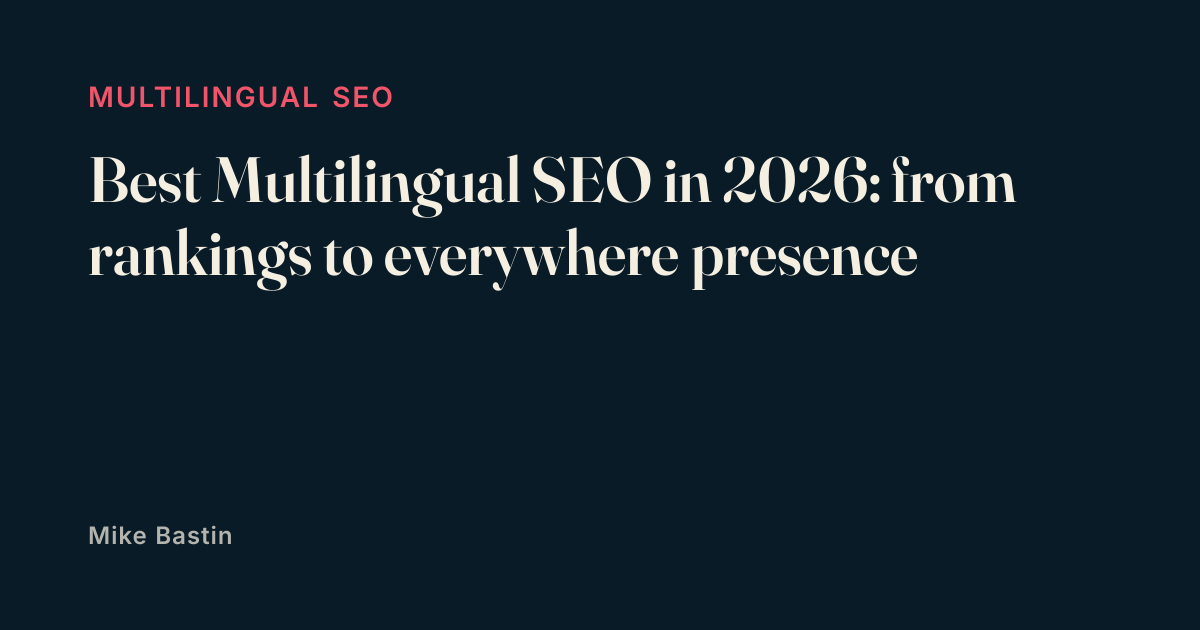
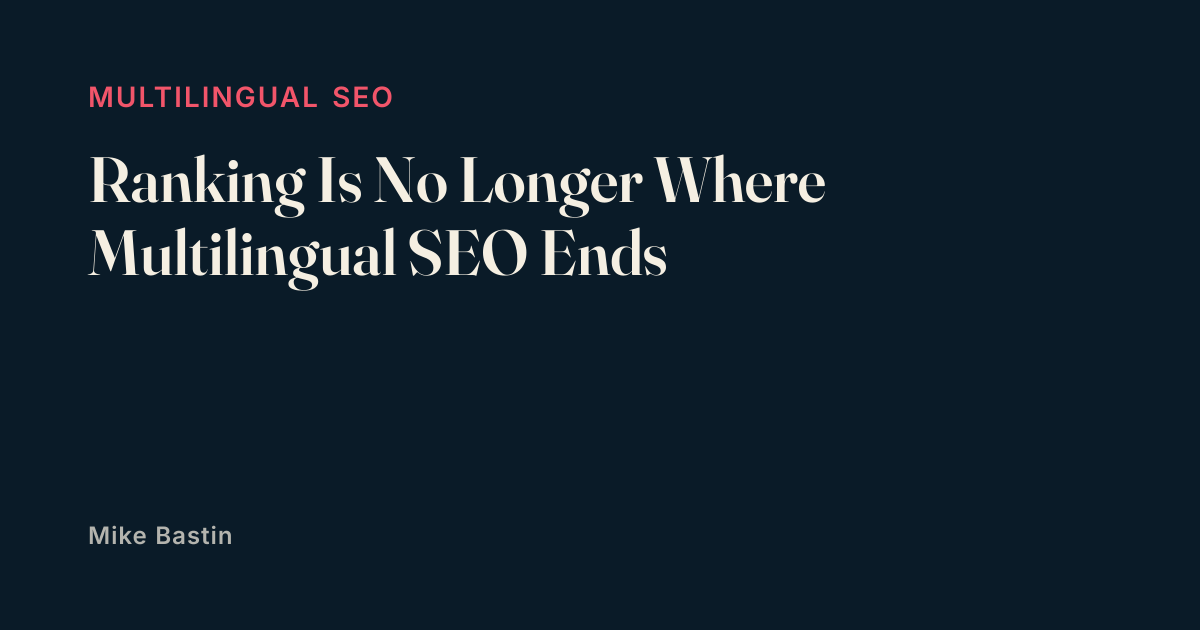
Take the year stamps and the bait openers out of the blog titles
Eighteen live post titles were written for a crawler rather than a
reader. The card in the screenshot is the clearest case: an eyebrow
reading MULTILINGUAL SEO sitting directly above an h1 reading "Best
Multilingual SEO in 2026", so the same term appeared twice in the same
image, wrapped in both a superlative and a year.

Year stamps are gone from every live title. A year in an h1 buys a little
freshness signal for one year and then makes the page look abandoned for
every year after, and none of these posts is about a year. The one
remaining year on the site is a fact rather than a stamp: "AI spending
tripled to $37B in 2025" in the global-business-trends excerpt, which is
a data point and stays.

Bait openers are gone too, "Best", "Top 10", "Top", "10", "15" and "The
Ultimate Guide to", none of which said anything about the article.

Each new title was checked against its own card eyebrow, which is the
cluster name, so none of them repeats it. Three needed rewording rather
than trimming for that reason alone: the multilingual-seo post no longer
opens on its own cluster, "The Future of SEO" became "Where SEO Goes
Next" because its cluster reads "AI and the future of search", and the
Spanish post drops "Markets" because its cluster is "Language markets".

Seven excerpts went the same way, and three of those were worse than the
titles: they still said 2024, so live search results were advertising
two-year-old content. Two also carried US spellings, "monetize" and
[…]

Changed region(s): [[0.0617, 0.2413, 0.8633, 0.4825]]

diff --git a/mb-master-revamp/site/content/en/posts/conversational-ai-chatbots-business.md b/mb-master-revamp/site/content/en/posts/conversational-ai-chatbots-business.md
@@ -9,7 +9,7 @@ wpId: 24847226
 date: "2026-04-23T09:00:00"
 modified: "2026-07-19T12:08:34"
 sourceUrl: "https://mikebastin.com/conversational-ai-chatbots-business/"
-excerpt: "AI chatbots are changing how businesses communicate with customers, generate leads, and handle support. From multilingual customer service to AI-driven sales conversations, conversational AI helps companies stay available 24/7 while reducing repetitive tasks. Discover how conversational AI chatbots can improve customer experience, automate workflows, and support your growth strategy in 2026."
+excerpt: "AI chatbots are changing how businesses communicate with customers, generate leads and handle support. From multilingual customer service to AI-driven sales conversations, conversational AI keeps a company available around the clock while reducing repetitive tasks."
 ---
 
 ![Article header image](https://mikebastin.com/wp-content/uploads/2026/04/conversational-ai-chatbots-business-practical-uses-1024x576.webp)

diff --git a/mb-master-revamp/site/content/en/posts/best-practices-for-multilingual-seo.md b/mb-master-revamp/site/content/en/posts/best-practices-for-multilingual-seo.md
@@ -1,6 +1,6 @@
 ---
 words: 1051
-title: "Best Multilingual SEO in 2026: from rankings to everywhere presence"
+title: "Ranking Is No Longer Where Multilingual SEO Ends"
 slug: "best-practices-for-multilingual-seo"
 locale: "en"
 type: "posts"
@@ -9,7 +9,7 @@ wpId: 24845454
 date: "2024-10-28T16:24:29"
 modified: "2026-07-19T11:28:46"
 sourceUrl: "https://mikebastin.com/best-practices-for-multilingual-seo/"
-excerpt: "Multilingual SEO in 2026 demands more than rankings. Keyword localisation, hreflang, structured data, and GEO strategies build an everywhere presence across search, AI answers, and every target market. Assess your multilingual strategy."
+excerpt: "Multilingual SEO now takes more than rankings. Keyword localisation, hreflang, structured data and GEO build a presence across search, AI answers and every target market."
 ---
 
 ## Multilingual SEO in 2026: from rankings to everywhere presence

diff --git a/mb-master-revamp/site/content/en/posts/global-business-trends.md b/mb-master-revamp/site/content/en/posts/global-business-trends.md
@@ -1,6 +1,6 @@
 ---
 words: 1689
-title: "Global Business Trends in 2026: AI, Trade Policy, and What Drives Growth Now"
+title: "Global Business Trends: AI, Trade Policy and What Drives Growth Now"
 slug: "global-business-trends"
 locale: "en"
 type: "posts"
@@ -9,7 +9,7 @@ wpId: 36912
 date: "2020-03-27T15:58:17"
 modified: "2026-07-02T15:08:52"
 sourceUrl: "https://mikebastin.com/global-business-trends/"
-excerpt: "AI spending tripled to $37B in 2025. US tariffs hit levels not seen since 1946. Explore the trends, risks, and strategies shaping global business in 2026. Assess your international growth plan."
+excerpt: "AI spending tripled to $37B in 2025. US tariffs hit levels not seen since 1946. The trends, risks and strategies shaping global business now."
 ---
 
 ## Global Business in 2026: Growth, Uncertainty, and the AI Shift

diff --git a/mb-master-revamp/site/content/en/posts/alternatives-to-google-analytics.md b/mb-master-revamp/site/content/en/posts/alternatives-to-google-analytics.md
@@ -1,7 +1,7 @@
 ---
 words: 585
 editorial: "light"
-title: "Top Alternatives to Google Analytics"
+title: "Google Analytics Alternatives, and When Each One Fits"
 slug: "alternatives-to-google-analytics"
 locale: "en"
 type: "posts"
@@ -10,7 +10,7 @@ wpId: 24844917
 date: "2024-10-10T09:19:53"
 modified: "2026-07-21T11:31:36"
 sourceUrl: "https://mikebastin.com/alternatives-to-google-analytics/"
-excerpt: "Discover top Google Analytics alternatives for 2024 that prioritize privacy, simplicity, and performance, offering businesses enhanced data control and compliance."
+excerpt: "Google Analytics alternatives that put privacy, simplicity and performance first, and which one fits which kind of site."
 ---
 
 ## Balancing Privacy and Insights

diff --git a/mb-master-revamp/site/content/en/posts/future-of-seo.md b/mb-master-revamp/site/content/en/posts/future-of-seo.md
@@ -1,6 +1,6 @@
 ---
 words: 2753
-title: "The Future of SEO in 2026: AI, GEO and What Actually Works"
+title: "Where SEO Goes Next: AI, GEO and What Actually Works"
 slug: "future-of-seo"
 locale: "en"
 type: "posts"
@@ -9,7 +9,7 @@ wpId: 24847479
 date: "2024-12-31T15:00:55"
 modified: "2026-07-02T17:27:34"
 sourceUrl: "https://mikebastin.com/future-of-seo/"
-excerpt: "How AI Overviews, zero-click search, and GEO are reshaping SEO in 2026. Data-backed strategies for visibility in a post-click world."
+excerpt: "How AI Overviews, zero-click search and GEO are reshaping SEO. Data-backed strategies for visibility in a post-click world."
 ---
 
 ## SEO in 2026 and beyond: trends, challenges, and what actually matters

diff --git a/mb-master-revamp/site/content/en/posts/affiliate-marketing-programs.md b/mb-master-revamp/site/content/en/posts/affiliate-marketing-programs.md
@@ -1,6 +1,6 @@
 ---
 words: 1076
-title: "Top 10 Affiliate Marketing Programs"
+title: "Affiliate Marketing Programs Worth the Setup Time"
 slug: "affiliate-marketing-programs"
 locale: "en"
 type: "posts"
@@ -9,7 +9,7 @@ wpId: 24845190
 date: "2024-10-21T13:03:21"
 modified: "2026-07-02T15:09:48"
 sourceUrl: "https://mikebastin.com/affiliate-marketing-programs/"
-excerpt: "Explore the top 10 high-paying affiliate programs for 2024, ideal for content creators and marketers looking to monetize effectively."
+excerpt: "High-paying affiliate programs worth the setup time, and what each one actually pays content creators and marketers."
 ---
 
 ## Affiliate programmes that still pay well in 2026

diff --git a/mb-master-revamp/site/content/en/posts/link-selling-and-link-buying-platforms.md b/mb-master-revamp/site/content/en/posts/link-selling-and-link-buying-platforms.md
@@ -9,7 +9,7 @@ wpId: 24847099
 date: "2024-12-16T14:47:29"
 modified: "2026-07-02T15:26:33"
 sourceUrl: "https://mikebastin.com/link-selling-and-link-buying-platforms/"
-excerpt: "Explore the best 2024 platforms for buying and selling backlinks, boosting SEO strategies for marketers, professionals, and website owners alike."
+excerpt: "Platforms for buying and selling backlinks, and what each one delivers for marketers, agencies and site owners."
 ---
 
 ## Link Buying and Selling Platforms in 2026: An Honest Working List

diff --git a/mb-master-revamp/site/content/en/posts/common-mistakes-to-avoid-when-localising-your-website.md b/mb-master-revamp/site/content/en/posts/common-mistakes-to-avoid-when-localising-your-website.md
@@ -1,7 +1,7 @@
 ---
 words: 572
 editorial: "light"
-title: "10 Common Mistakes to Avoid When Localising Your Website for International Markets"
+title: "Website Localisation Mistakes That Cost You the Market"
 slug: "common-mistakes-to-avoid-when-localising-your-website"
 locale: "en"
 type: "posts"

diff --git a/mb-master-revamp/site/content/en/posts/best-vietnam-sourcing-agencies-for-eudr-supplier-scouting-and-audits.md b/mb-master-revamp/site/content/en/posts/best-vietnam-sourcing-agencies-for-eudr-supplier-scouting-and-audits.md
@@ -1,6 +1,6 @@
 ---
 words: 3237
-title: "Best Vietnam Sourcing Agencies for EUDR : Supplier Scouting and Audits"
+title: "Vietnam Sourcing Agencies for EUDR: Supplier Scouting and Audits"
 slug: "best-vietnam-sourcing-agencies-for-eudr-supplier-scouting-and-audits"
 locale: "en"
 type: "posts"

diff --git a/mb-master-revamp/site/content/en/posts/15-simple-blog-post-ideas-to-help-attract-more-customers-to-your-business.md b/mb-master-revamp/site/content/en/posts/15-simple-blog-post-ideas-to-help-attract-more-customers-to-your-business.md
@@ -1,6 +1,6 @@
 ---
 words: 731
-title: "15 Simple Blog Post Ideas to Help Attract More Customers to Your Business"
+title: "Blog Post Ideas That Attract Customers, Not Just Traffic"
 slug: "15-simple-blog-post-ideas-to-help-attract-more-customers-to-your-business"
 locale: "en"
 type: "posts"

diff --git a/mb-master-revamp/site/content/en/posts/internal-linking-tools.md b/mb-master-revamp/site/content/en/posts/internal-linking-tools.md
@@ -1,6 +1,6 @@
 ---
 words: 1243
-title: "Best Internal Linking Tools and WordPress Plugins for SEO Optimisation"
+title: "Internal Linking Tools and WordPress Plugins Worth Installing"
 slug: "internal-linking-tools"
 locale: "en"
 type: "posts"

diff --git a/mb-master-revamp/site/content/en/posts/english-to-french-translation-services.md b/mb-master-revamp/site/content/en/posts/english-to-french-translation-services.md
@@ -1,6 +1,6 @@
 ---
 words: 1828
-title: "English to French Translation Services: The 2026 Guide"
+title: "What to Look For in English to French Translation Services"
 slug: "english-to-french-translation-services"
 locale: "en"
 type: "posts"
